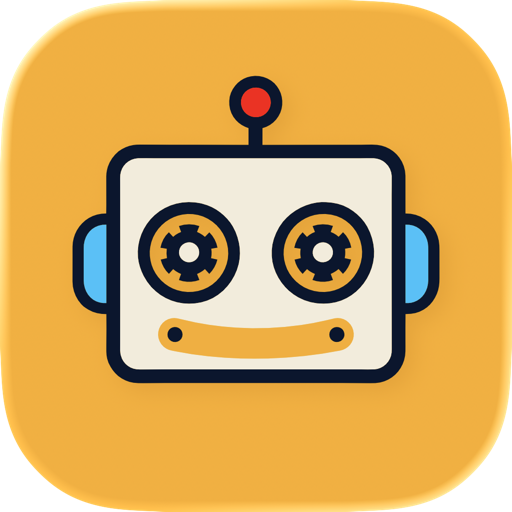
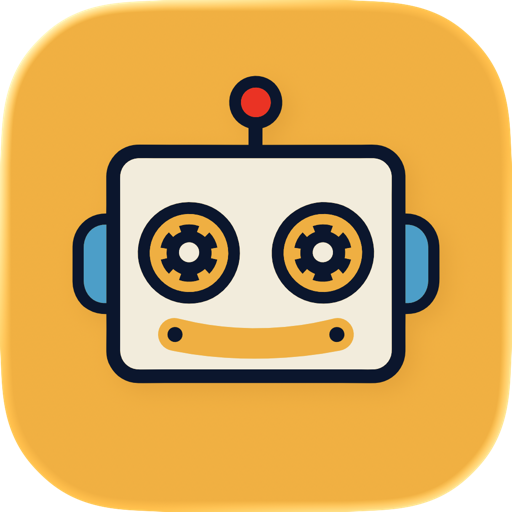
Rename the first tab to My Library and re-sample the blues
Two user-visible changes plus the artwork they follow from.

The first tab is now "My Library" rather than "My Doppler". Doppler being
the only library it can read is a fact about today, not about the design,
and the screen is about the user's music either way. Every string a user
can read moved with it — the tab item and the five messages that point at
it by name. MyDopplerView and Tab.myDoppler keep their names, following
the convention Showcase/"Discover" already set; CLAUDE.md now states that
rule once for both.

The icon's ears changed from rgb(24,195,251) to rgb(29,160,204), so the
palette was re-sampled rather than nudged: Theme.sky takes the new value,
and deepSky is re-derived from it (22/120/153, the new sky darkened until
white labels clear 5:1 — the accent is defined by that constraint, not by
a fixed offset from the old colour). statTints' pale sky is likewise the
new sky mixed toward white instead of the old bright one lightened.

The .icon bundle carried its own copy of RobotFace.svg, which still had
the old ears — the app icon and the artwork had silently diverged. The
copies are in sync again, and the stale purple-era Image layer is gone
from icon.json along with its asset.

Changed region(s): [[0.7812, 0.4375, 0.8438, 0.5938], [0.1562, 0.4375, 0.2188, 0.5938]]

diff --git a/MixTape/DopplerLibrary.swift b/MixTape/DopplerLibrary.swift
@@ -16,7 +16,7 @@ struct Song: Identifiable, Hashable, Sendable {
     let artist: String?
 }
 
-/// A song with display-friendly metadata used by the My Doppler stat panels and
+/// A song with display-friendly metadata used by the My Library stat panels and
 /// by Showcase track resolution (`findSong(title:artist:)`). `dateAdded` is the
 /// converted-to-Swift `ZSNRSONG.ZDATEADDED` (Core Data reference date — see
 /// `coreDataDate` below). `playCount` is only populated by `mostPlayedSongs`.
@@ -81,7 +81,7 @@ struct SongLocation: Sendable, Hashable {
     }
 }
 
-/// Library-wide counts shown as the four stat tiles at the top of My Doppler.
+/// Library-wide counts shown as the four stat tiles at the top of My Library.
 /// `zero` is the placeholder used while the first query is in flight.
 struct LibraryCounts: Hashable, Sendable {
     let songs: Int
@@ -191,7 +191,7 @@ actor DopplerLibrary {
     }
 
     /// Returns every playlist in the library with its track count. Sorted alphabetically
-    /// using `COLLATE NOCASE`. Backs both the My Doppler "Playlists" panel and the
+    /// using `COLLATE NOCASE`. Backs both the My Library "Playlists" panel and the
     /// `mostPlayedSongs` UI's playlist count.
     func listPlaylists() throws -> [Playlist] {
         let db = try requireOpen()
@@ -270,7 +270,7 @@ actor DopplerLibrary {
     }
 
     /// Single-statement aggregate of all four counts (songs/artists/albums/playlists).
-    /// Cheap — runs in well under 1 ms on a typical library. Powers the My Doppler
+    /// Cheap — runs in well under 1 ms on a typical library. Powers the My Library
     /// stat tiles row.
     func libraryCounts() throws -> LibraryCounts {
         let db = try requireOpen()
@@ -307,7 +307,7 @@ actor DopplerLibrary {
 
     /// Most recently added songs (by `ZDATEADDED DESC`), up to `limit`. Excludes
     /// rows where Doppler has flagged the file as missing. Joins `ZSNRALBUM` for
-    /// the album name. Powers the My Doppler "Recently Added" panel.
+    /// the album name. Powers the My Library "Recently Added" panel.
     func recentlyAddedSongs(limit: Int = 10) throws -> [SongRow] {
         let db = try requireOpen()
         let started = Date()
@@ -546,7 +546,7 @@ actor DopplerLibrary {
 
     /// Top-N songs by play count, computed by `COUNT(*) GROUP BY ZSONG` against
     /// `ZSONGPLAYHISTORY` (which is an event log, one row per play). Powers the
-    /// My Doppler "Most Played" panel. Sparse for users who haven't been on Doppler
+    /// My Library "Most Played" panel. Sparse for users who haven't been on Doppler
     /// long — we surface a friendly empty hint in that case.
     func mostPlayedSongs(limit: Int = 10) throws -> [SongRow] {
         let db = try requireOpen()

diff --git a/MixTape/Theme.swift b/MixTape/Theme.swift
@@ -19,8 +19,8 @@ import SwiftUI
 ///   white text: it's a light color, and white on it is ~1.9:1.
 /// - `gold`   rgb(232, 182, 81)  — the muted amber in the icon's shading. A
 ///   second warm tone for places that need two distinct highlights.
-/// - `sky`    rgb(24, 195, 251)  — the robot's ears. The cool counterweight.
-/// - `deepSky` rgb(14, 127, 196) — `sky` darkened until white text clears 4.3:1.
+/// - `sky`    rgb(29, 160, 204)  — the robot's ears. The cool counterweight.
+/// - `deepSky` rgb(22, 120, 153) — `sky` darkened 25% until white text clears 5:1.
 ///   **This is the accent color**, mirrored in
 ///   `Assets.xcassets/AccentColor.colorset` so buttons, toggles, pickers and
 ///   `.tint`-receiving controls inherit it for free. It exists because neither
@@ -49,13 +49,13 @@ import SwiftUI
 ///   that picks up the palette without being noisy.
 ///
 /// `statTints` is warm→cool across the two brand families, used by the four
-/// `StatTile`s on My Doppler so each stat reads as distinct without breaking
+/// `StatTile`s on My Library so each stat reads as distinct without breaking
 /// the palette.
 enum Theme {
     static let amber   = Color(.sRGB, red: 251/255, green: 172/255, blue: 23/255,  opacity: 1)
     static let gold    = Color(.sRGB, red: 232/255, green: 182/255, blue: 81/255,  opacity: 1)
-    static let sky     = Color(.sRGB, red: 24/255,  green: 195/255, blue: 251/255, opacity: 1)
-    static let deepSky = Color(.sRGB, red: 14/255,  green: 127/255, blue: 196/255, opacity: 1)
+    static let sky     = Color(.sRGB, red: 29/255,  green: 160/255, blue: 204/255, opacity: 1)
+    static let deepSky = Color(.sRGB, red: 22/255,  green: 120/255, blue: 153/255, opacity: 1)
     static let cream   = Color(.sRGB, red: 243/255, green: 236/255, blue: 218/255, opacity: 1)
     static let navy    = Color(.sRGB, red: 8/255,   green: 22/255,  blue: 47/255,  opacity: 1)
 
@@ -68,11 +68,12 @@ enum Theme {
     /// Distinct tints for the four stat tiles (Songs / Artists / Albums /
     /// Playlists). Runs warm → cool so the row reads as one deliberate palette
     /// rather than four unrelated colors. The pale sky at the end is `sky`
-    /// lightened; it's the only value here not lifted straight from the icon.
+    /// mixed 45% toward white; it's the only value here not lifted straight
+    /// from the icon.
     static let statTints: [Color] = [
         amber,
         gold,
         sky,
-        Color(.sRGB, red: 134/255, green: 220/255, blue: 253/255, opacity: 1)
+        Color(.sRGB, red: 130/255, green: 203/255, blue: 227/255, opacity: 1)
     ]
 }

diff --git a/MixTape/ContentView.swift b/MixTape/ContentView.swift
@@ -1,6 +1,6 @@
 import SwiftUI
 
-/// The main window's root view. A three-tab `TabView` shell — "My Doppler"
+/// The main window's root view. A three-tab `TabView` shell — "My Library"
 /// (read-only dashboard onto the user's library), "Discover" (themes the LLM
 /// invents from the library) and "Create" (one playlist from a brief the user
 /// types). Tab content lives in `MyDopplerView`, `ShowcaseView` and `CreateView`.
@@ -8,21 +8,24 @@ import SwiftUI
 /// Also implements the **first-run gate**: when the window first appears, if the
 /// LLM provider isn't configured we programmatically open the Settings scene so
 /// the user has somewhere to start. Library selection is handled inside Settings,
-/// not gated here, because the My Doppler tab has its own no-library empty state.
+/// not gated here, because the My Library tab has its own no-library empty state.
 struct ContentView: View {
     @State private var settings = AppSettings.shared
     @State private var selectedTab: Tab = .myDoppler
     @Environment(\.openSettings) private var openSettings
 
-    /// Tab identity for the `TabView` selection binding. The `showcase` case name
-    /// pre-dates the user-visible "Discover" label — the code-side identifier
-    /// stays put to avoid churn, as does `ShowcaseView`/`ShowcaseGenerator`.
+    /// Tab identity for the `TabView` selection binding. **Two of these three
+    /// case names pre-date their user-visible labels and deliberately stay put:**
+    /// `showcase` is labelled "Discover" (as are `ShowcaseView`/`ShowcaseGenerator`),
+    /// and `myDoppler` is labelled "My Library" (as is `MyDopplerView`). The tab
+    /// reads one library today and that library is Doppler's; the label is generic
+    /// because the screen isn't about Doppler, it's about the user's music.
     enum Tab: Hashable { case myDoppler, showcase, create }
 
     var body: some View {
         TabView(selection: $selectedTab) {
             MyDopplerView()
-                .tabItem { Label("My Doppler", systemImage: "music.note.list") }
+                .tabItem { Label("My Library", systemImage: "music.note.list") }
                 .tag(Tab.myDoppler)
 
             ShowcaseView()

diff --git a/MixTape/ShowcaseGenerator.swift b/MixTape/ShowcaseGenerator.swift
@@ -121,7 +121,7 @@ enum ShowcaseSimilarError: LocalizedError {
         case .seedNotFound:
             return "That track is no longer in your library."
         case .seedNotMatched(let title):
-            return "“\(title)” hasn't been matched to MusicBrainz yet, so there's nothing to compare it against. Let the track sync finish on My Doppler and try again."
+            return "“\(title)” hasn't been matched to MusicBrainz yet, so there's nothing to compare it against. Let the track sync finish on My Library and try again."
         case .noSimilarData(let title):
             return "ListenBrainz has no listening data for “\(title)”, or nothing similar to it is in your library. This is common for lesser-known artists — try a more widely played track."
         }
@@ -143,7 +143,7 @@ enum ShowcaseError: LocalizedError {
         case .notConfigured:
             return "LM Studio isn't configured. Open Settings (⌘,) and pick a model."
         case .noArtistsCached:
-            return "No artists in the metadata cache yet. Run a sync from My Doppler first."
+            return "No artists in the metadata cache yet. Run a sync from My Library first."
         case .invalidResponse(let m):
             return "LM Studio returned a response we couldn't parse: \(m)"
         case .noUsableThemes:
@@ -257,7 +257,7 @@ final class ShowcaseGenerator {
 
     /// Writes the entry's playlist into Doppler. Throws `DopplerLibraryWriter.WriteError`
     /// on failure (most commonly `dopplerRunning`). On success, marks the entry as added
-    /// and bumps `AppSettings.libraryRevision` so observers (My Doppler) re-fetch.
+    /// and bumps `AppSettings.libraryRevision` so observers (My Library) re-fetch.
     func addToDoppler(entryID: UUID) async throws -> Int64 {
         Log.info("user tapped Add to Doppler", category: LogCategory.ui)
         guard let url = AppSettings.shared.libraryURL else {

diff --git a/MixTape/ShowcaseView.swift b/MixTape/ShowcaseView.swift
@@ -10,7 +10,7 @@ import UniformTypeIdentifiers
 /// 3. MusicBrainz cache initial sync complete?
 ///
 /// If any gate fails we render a `ContentUnavailableView` that points the user
-/// at the right place to fix it (Settings or My Doppler).
+/// at the right place to fix it (Settings or My Library).
 ///
 /// When all gates pass, the body shows a header (title + subtitle + theme-count
 /// stepper + Generate button) over a `LazyVGrid` of `ShowcaseTile`s. Tapping a
@@ -94,11 +94,11 @@ struct ShowcaseView: View {
             // where the flag was cleared by a cache reset mid-run.
             return "Matching your tracks to MusicBrainz (\(processed)/\(total)). Playlists unlock when this finishes."
         case .failed(let msg):
-            return "MusicBrainz lookup failed: \(msg)\nPlaylists will unlock once the cache completes — try refreshing My Doppler."
+            return "MusicBrainz lookup failed: \(msg)\nPlaylists will unlock once the cache completes — try refreshing My Library."
         case .cancelled:
-            return "Cache build was cancelled. Refresh My Doppler to resume."
+            return "Cache build was cancelled. Refresh My Library to resume."
         case .idle, .completed:
-            return "Switch to the My Doppler tab to start the initial cache build."
+            return "Switch to the My Library tab to start the initial cache build."
         }
     }
 

diff --git a/docs/index.html b/docs/index.html
@@ -446,7 +446,7 @@
 
   <section class="feature">
     <div>
-      <span class="eyebrow">My Doppler</span>
+      <span class="eyebrow">My Library</span>
       <h2>Your library at a glance</h2>
       <p>
         Songs, artists, albums and playlists, plus what you've added recently and what
@@ -458,7 +458,7 @@
       </p>
     </div>
     <div class="shot">
-      <img src="screenshots/my-doppler-library.png" alt="The My Doppler tab showing library counts, recently added tracks and most played tracks" width="1864" height="1408" loading="lazy">
+      <img src="screenshots/my-doppler-library.png" alt="The My Library tab showing library counts, recently added tracks and most played tracks" width="1864" height="1408" loading="lazy">
     </div>
   </section>
 

diff --git a/MixTape/CreateView.swift b/MixTape/CreateView.swift
@@ -70,7 +70,7 @@ struct CreateView: View {
                 ContentUnavailableView {
                     Label("Building your library context", systemImage: "hourglass")
                 } description: {
-                    Text("Creating playlists unlocks once the initial MusicBrainz sync finishes. Check the banner on My Doppler.")
+                    Text("Creating playlists unlocks once the initial MusicBrainz sync finishes. Check the banner on My Library.")
                         .multilineTextAlignment(.center)
                 }
             } else {

diff --git a/MixTape/MyDopplerView.swift b/MixTape/MyDopplerView.swift
@@ -272,7 +272,7 @@ struct MyDopplerView: View {
     }()
 }
 
-/// One of the four big number+label cards at the top of My Doppler.
+/// One of the four big number+label cards at the top of My Library.
 /// `tint` colors the icon glyph and the uppercase label so each stat reads
 /// as distinct; the number itself stays in the primary text color so glance
 /// readability isn't lost. Background uses the shared `Theme.panel` so the

diff --git a/MixTape/SyncBanner.swift b/MixTape/SyncBanner.swift
@@ -1,6 +1,6 @@
 import SwiftUI
 
-/// Banner card for the metadata-cache sync phase. Lives at the top of My Doppler
+/// Banner card for the metadata-cache sync phase. Lives at the top of My Library
 /// while MusicBrainz lookups are running, failed, or cancelled. Hidden in the
 /// idle/completed cases.
 ///

diff --git a/CLAUDE.md b/CLAUDE.md
@@ -8,13 +8,18 @@ A macOS SwiftUI app that uses a local LLM ([LM Studio](https://lmstudio.ai)) to 
 
 User-visible shape:
 
-- **My Doppler** tab — library stats, recently added, most played, existing playlists, sync banner.
+- **My Library** tab — library stats, recently added, most played, existing playlists, sync banner.
 - **Discover** tab — grid of LLM-generated playlists whose themes the model invented from the library. Each tile opens a detail sheet with the tracklist plus **Add to Doppler** (writeback), **Save .m3u** (one click into a remembered folder, with **Export .m3u…** and the folder controls in its menu), and a per-tile **Retry** when an individual playlist fails.
 - **Create** tab — two modes behind a segmented picker. *Describe* takes a typed brief ("Italian dinner night") and runs the same two-pass pipeline. *More like this* takes a seed track and builds a playlist by collaborative filtering, **with no LLM call at all** — so it stays usable with LM Studio closed, and its LLM gate is rendered inline rather than replacing the screen (otherwise the mode picker itself becomes unreachable).
 - **Settings (⌘,)** — LLM provider, library picker, .m3u save folder, cache management.
 - **Debug Log (⌘⌥L)** — in-app log viewer.
 
-The Discover tab is named `Showcase` throughout the code (`ShowcaseView`, `ShowcaseGenerator`, `ShowcaseEntry`, the `Tab.showcase` case). That's the original name, deliberately kept — don't rename it as a drive-by. The user-visible label has been "Playlists" and is now "Discover"; the code name has never moved.
+**Two tabs have code names that don't match their labels, and both are deliberate — don't rename either as a drive-by.**
+
+- Discover is `Showcase` throughout the code (`ShowcaseView`, `ShowcaseGenerator`, `ShowcaseEntry`, `Tab.showcase`). The label has been "Playlists" and is now "Discover"; the code name has never moved.
+- My Library is `MyDopplerView` / `Tab.myDoppler`. The label moved off "My Doppler" because the screen is about the user's music, not about Doppler — and because Doppler being the only supported library is a fact about today, not about the design. The code name still says Doppler because that's still literally what it reads.
+
+The rule for both: **user-visible strings track the label, code identifiers don't.** A string a user can read should say "My Library"; a symbol, a filename or a reference to the type keeps its name.
 
 **Discover and Create share one `entries` array** on `ShowcaseGenerator`, tagged by `ShowcaseEntry.source` (`.discover` / `.created`). That's deliberate: `addToDoppler`, `exportM3U` and `retryEntry` all look an entry up by UUID, so both tabs get them for free. The tabs filter via `discoverEntries` / `createdEntries`. Two consequences to preserve — `generate()` must only clear `.discover` entries (a Regenerate shouldn't destroy the user's Create results), and Create runs on its own `createPhase`/`createTask` so the two tabs don't fight over `phase`.
 
@@ -217,11 +222,11 @@ The default of 45 keeps the original tuning exactly — `perArtistLimit` stays 1
 
 ### Theming
 
-[Theme.swift](MixTape/Theme.swift) is the single source of truth for the palette — **sampled from the MixTape icon**, not invented: `amber` 251/172/23 and `gold` 232/182/81 (ground + shading), `sky` 24/195/251 (ears), `cream` 243/236/218 (face), `navy` 8/22/47 (outlines), `warning` 219/104/82 (antenna coral). Plus two container tones darkened out of `navy` — `windowBackground` near-black, `panel` lifted off it by 1.31:1 so cards read as elevated. Re-sample from [RobotFace.svg](MixTape/MixTape.icon/Assets/RobotFace.svg) (plain `rgb()` fills) and [icon.json](MixTape/MixTape.icon/icon.json) (`fill.solid`, **Display P3** — convert before use) if the artwork is redrawn. The palette replaced a Doppler-derived purple one when the app was renamed; nothing in the app should reference Doppler's brand colors any more.
+[Theme.swift](MixTape/Theme.swift) is the single source of truth for the palette — **sampled from the MixTape icon**, not invented: `amber` 251/172/23 and `gold` 232/182/81 (ground + shading), `sky` 29/160/204 (ears), `cream` 243/236/218 (face), `navy` 8/22/47 (outlines), `warning` 219/104/82 (antenna coral). Plus two container tones darkened out of `navy` — `windowBackground` near-black, `panel` lifted off it by 1.31:1 so cards read as elevated. Re-sample from [RobotFace.svg](MixTape/MixTape.icon/Assets/RobotFace.svg) (plain `rgb()` fills) and [icon.json](MixTape/MixTape.icon/icon.json) (`fill.solid`, **Display P3** — convert before use) if the artwork is redrawn. The palette replaced a Doppler-derived purple one when the app was renamed; nothing in the app should reference Doppler's brand colors any more.
 
 Two rules the palette is built around, both easy to undo by accident:
 
-- **The accent is `deepSky` (14/127/196), not `amber` or `sky`.** It's `sky` darkened until white text clears 4.3:1. The icon's own amber and sky are light — white on either is ~1.9:1 — and the app has six `.borderedProminent` buttons whose labels macOS paints white regardless. Amber carries the brand as *foreground* on dark panels (8:1+); it must never become a fill behind white text. The value is mirrored in `Assets.xcassets/AccentColor.colorset` so SwiftUI controls inherit it for free — **change both or neither.**
+- **The accent is `deepSky` (22/120/153), not `amber` or `sky`.** It's `sky` darkened 25% until white text clears 5:1. The icon's own amber and sky are light — white on them is 1.9:1 and 3.0:1 — and the app has six `.borderedProminent` buttons whose labels macOS paints white regardless. Amber carries the brand as *foreground* on dark panels (8:1+); it must never become a fill behind white text. The value is mirrored in `Assets.xcassets/AccentColor.colorset` so SwiftUI controls inherit it for free — **change both or neither.**
 - **User-facing warnings use `Theme.warning`, never `.orange`.** System orange now sits a few degrees from `amber`, so a failure chip rendered in it reads as ordinary brand chrome. The one deliberate exception is [DebugLogView.swift](MixTape/DebugLogView.swift)'s level ramp, which keeps conventional orange/red because it's a developer tool, not a brand surface. Success states keep the system `.green`.
 
 The app is forced dark (`.preferredColorScheme(.dark)` on every Scene root). The window background is painted via `.containerBackground(Theme.windowBackground, for: .window)` on the root of the main window and the Settings scene. Don't reach for `Color(nsColor: .controlBackgroundColor)` for new card surfaces — use `Theme.panel` + `Theme.panelBorder` so elevation stays consistent. Playlist tiles are the deliberate exception: they use a deterministic FNV-1a hash of the theme name to pick a multi-color gradient, so each tile feels distinct.

diff --git a/README.md b/README.md
@@ -8,7 +8,7 @@ Everything runs on your machine. Your library never leaves it — the only netwo
 
 > Built with heavy use of [Claude Code](https://claude.com/claude-code), Anthropic's AI coding assistant; contributed commits are tagged as such in the git history, and the brief it works from is checked into the repo as [CLAUDE.md](CLAUDE.md). Architecture, the model and context constraints, and what ships are human decisions, and since there is no automated test suite, every release is verified by hand against a real Doppler library.
 
-![The My Doppler tab, showing library stats and the MusicBrainz sync banner](images/app_window.png)
+![The My Library tab, showing library stats and the MusicBrainz sync banner](images/app_window.png)
 
 ---
 
@@ -64,7 +64,7 @@ The **Settings** window opens automatically the first time. Set up two things:
 
 ![The Settings window](images/settings_window.png)
 
-Then switch to **My Doppler**. The app immediately starts caching artist metadata from MusicBrainz. This takes roughly **1 second per artist** — MusicBrainz rate-limits anonymous users, and the app respects that. A 140-artist library takes a couple of minutes. It only happens once; the results are cached on disk.
+Then switch to **My Library**. The app immediately starts caching artist metadata from MusicBrainz. This takes roughly **1 second per artist** — MusicBrainz rate-limits anonymous users, and the app respects that. A 140-artist library takes a couple of minutes. It only happens once; the results are cached on disk.
 
 The **Discover** and **Create** tabs unlock when that finishes.
 
@@ -112,7 +112,7 @@ This uses real listening data from [ListenBrainz](https://listenbrainz.org) rath
 
 | Symptom | Cause |
 | --- | --- |
-| Discover and Create are locked | The MusicBrainz sync hasn't finished. Check the banner on **My Doppler**. |
+| Discover and Create are locked | The MusicBrainz sync hasn't finished. Check the banner on **My Library**. |
 | Generation fails immediately | LM Studio isn't running, or no model is loaded. Re-run *Test Connection* in Settings. |
 | Every playlist fails, or output is empty | Model context is too small. Raise it to 8 K+ in LM Studio and regenerate. |
 | *"LM Studio ran out of context"* partway through | Too many playlists being generated at once for your model's context. Lower **Parallel requests** in *Settings → LLM* (default 3), or raise the model's context length. |
@@ -122,7 +122,7 @@ This uses real listening data from [ListenBrainz](https://listenbrainz.org) rath
 
 ## Windows and shortcuts
 
-- **My Doppler** — library stats, recently added, most played, your existing playlists, sync banner.
+- **My Library** — library stats, recently added, most played, your existing playlists, sync banner.
 - **Discover** — playlist themes the model came up with from your library.
 - **Create** — type a description, or pick a track and get more like it.
 - **Settings** — ⌘, — LLM config and parallel-request cap, library picker, `.m3u` save folder, cache stats and reset.
